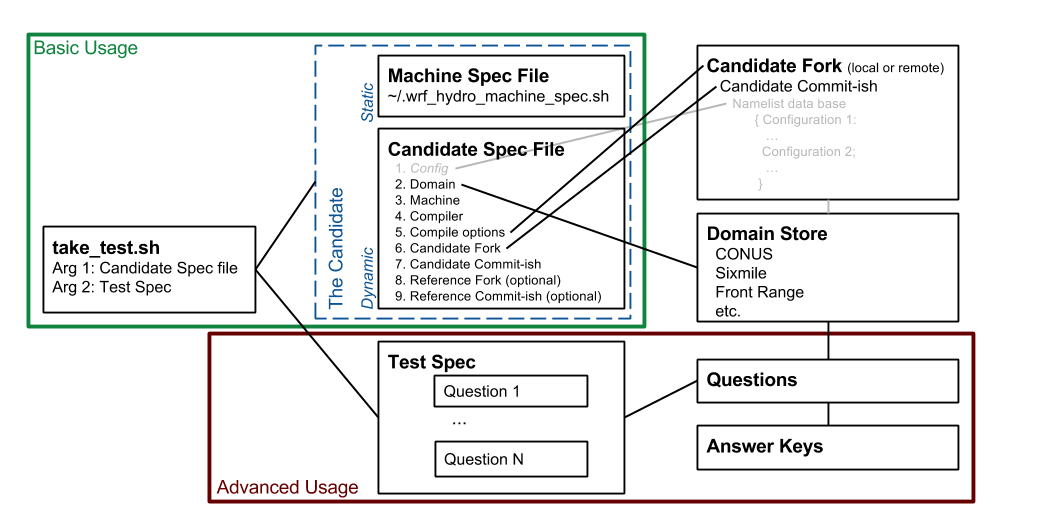
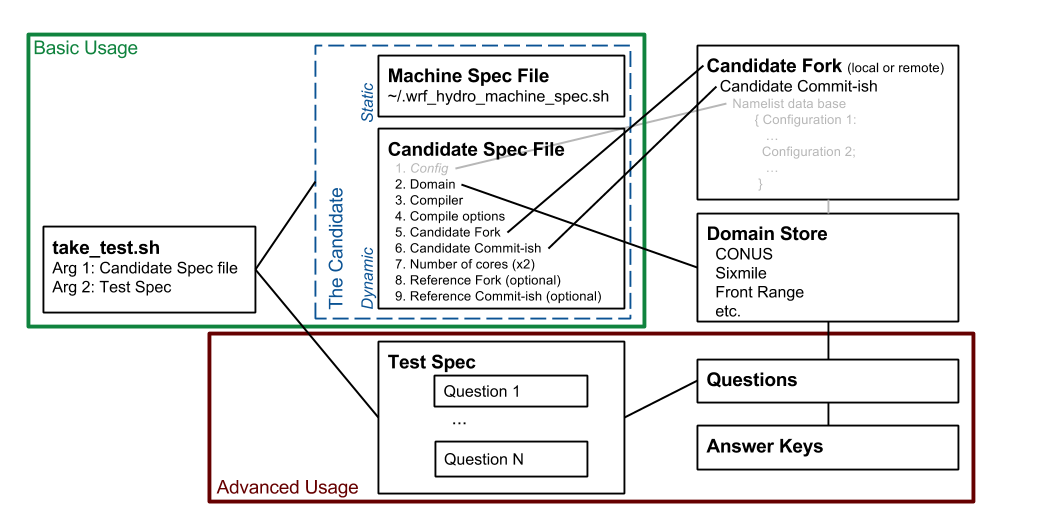
More readme improvements... new checksum

Changed region(s): [[0.4, 0.1868, 0.6769, 0.5292]]

diff --git a/README.md b/README.md
@@ -77,7 +77,7 @@ Currently:
 * The system is used for on-demand, CI (ising CircleCI), and periodic
   testing. 
 * There is flexibilty for users to develop their own custom tests and
-  questions (covered in the "Advanced Usage" section).
+  questions (covered in the [Advanced Usage](#7-advanced-usage) section).
 * Users are encouraged to develop tests that can be used by others.
 * The full set of required features has not yet been implemented
   (covered in the "Deficiencies, on-going, & future work" section").
@@ -99,7 +99,7 @@ for the price of compiling." *The wrf\_hydro\_tests function*
 compiling is the focus of the development activity, this IS the way
 for developers to compile: compile + test. Tests can also be easily 
 customized by developers to focus only on certain aspects of the
-testing with each compile (covered in "Advanced Usage".)
+testing with each compile (covered in [Advanced Usage](#7-advanced-usage).)
 
 
 ## 1.4 Where ? ##
@@ -138,21 +138,10 @@ This is the main subject of this README, please read on.
 
 # 2. Overview & Definitions #
 
-Purpose of this section
-
-1. Define terms ("test" can be use in multiple, ambiguous ways),
-1. Introduce users to what they need to get started. 
-
-Advanced usage (defining custom tests or other development) is
-deferred to a later section. 
-
-
-## 2.1 `take_test.sh` ##
-
-A *candidate* takes a *test*. The take\_test name emphasizes that there
-are two parts: the taker and the test. The `take_test.sh` (bash)
-script is a top-level driver routine which brings the two
-together. This is shown on the left-hand side in Figure 1 below. 
+The purpose of this section is to define the terms used in the design
+of the wrf\_hydro\_tests. Introduce the basics so that new users can
+become familiar with basic usage. [Figure 1](#2-overview--definitions) shows the components of the
+system and roughly groups these into "basic usage" and "advanced usge".
 
 <table class="image">
     <tr>
@@ -164,12 +153,24 @@ together. This is shown on the left-hand side in Figure 1 below.
     </tr>
 </table>
 
+Advanced usage (defining custom tests and other development) is
+deferred to a [later section](#7-advanced-usage). 
 
 
-The first argument to `take_test` is the candidate specification and
-the second argument is the test specification. Running `take_tests`
-with no arguments (or less than 2 arguments) produces help on both its
-arguments. 
+## 2.1 `take_test.sh` ##
+
+A *candidate* takes a *test*. The take\_test name emphasizes that there
+are two parts: the taker and the test. The `take_test.sh` (bash)
+script is a top-level driver routine which brings the two
+together. The `take_tests` script is shown on the left-hand side in
+[Figure 1](#2-overview--definitions), above.
+
+The first argument to `take_test` is the candidate specification file
+and the second argument is the test specification. These two inputs
+are shown in [Figure 1](#2-overview--definitions) with their
+relationship to other parts of the system. Note that running
+`take_tests` with no arguments (or less than 2 arguments) produces
+help on both its arguments. 
 
 The `take_test` script broadly handles the following tasks:
 
@@ -190,7 +191,10 @@ take a test. The particulars of the candidate are recorded in two files:
 1. Candidate specification file: the more dynamic parts.
 
 These two files shoud uniquely identify a candidate. If you
-dont find that to be true, please log an issue! 
+dont find that to be true, please log an issue! The two files are
+shown in [Figure 1](#2-overview--definitions), grouped by the blue box
+that indicates the abstract idea of the candidate as consisting of the
+two files. 
 
 Though wrf\_hydro\_tests can use environment variables defined outside
 these two files (and we employ this fact in Docker applications), we
@@ -236,11 +240,12 @@ tailored by the user to specifiy the more dynamic parts of the
 candidate. There are broad groups of "moving parts" to be specified
 for a candidate:
 
+1. (Configuration - to be implemented)
 1. Domain group
 1. Compiler
-1. Numer of cores group
 1. Model compile options group
 1. Candidate repository group
+1. Numer of cores group
 1. Reference repository group
 
 There are currently a total of 22 variables which fall mostly in these
